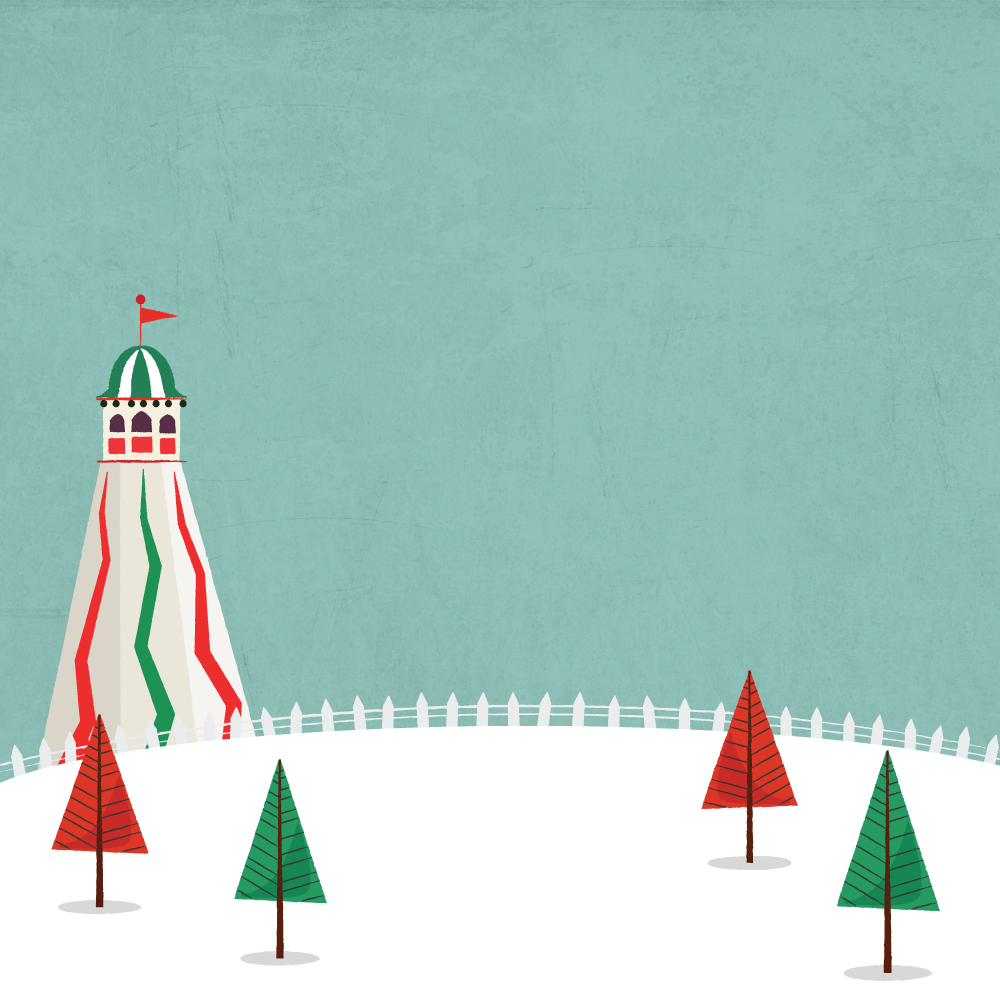
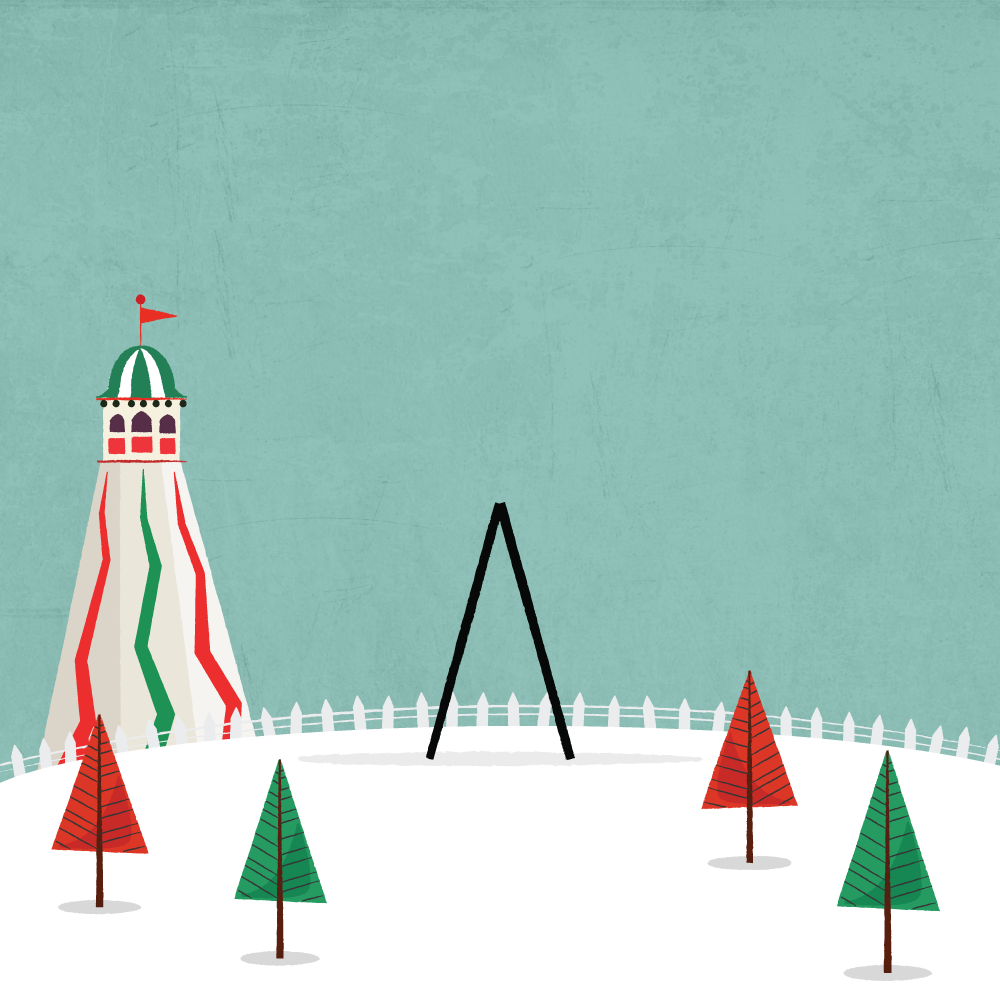
d
d

Changed region(s): [[0.434, 0.496, 0.558, 0.744], [0.558, 0.713, 0.589, 0.775], [0.403, 0.744, 0.434, 0.775]]

diff --git a/sketch.js b/sketch.js
@@ -1,17 +1,15 @@
-var bg;
+var bg, wheel;
 
 function setup(){
    bg = loadImage("bg.png");
+   wheel = loadImage("wheel.png");
    createCanvas(1000,1000);
-
-
 }
 
 
 function draw(){
    background(bg);  
+   Image(wheel,0,0,1000,1000)
 
-   noStroke();
    noCursor();
- 
 }
